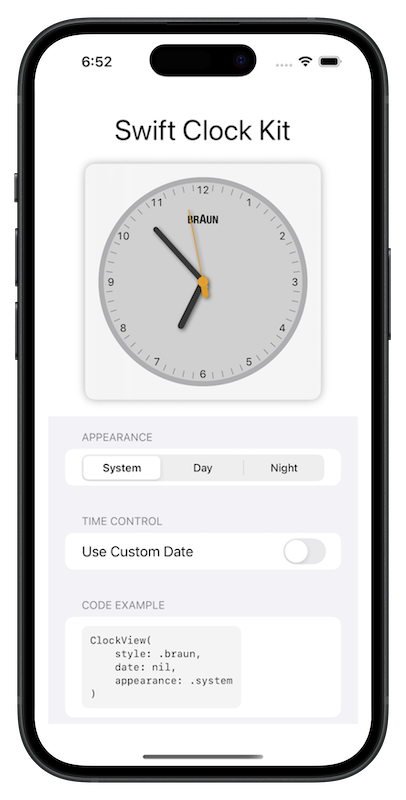
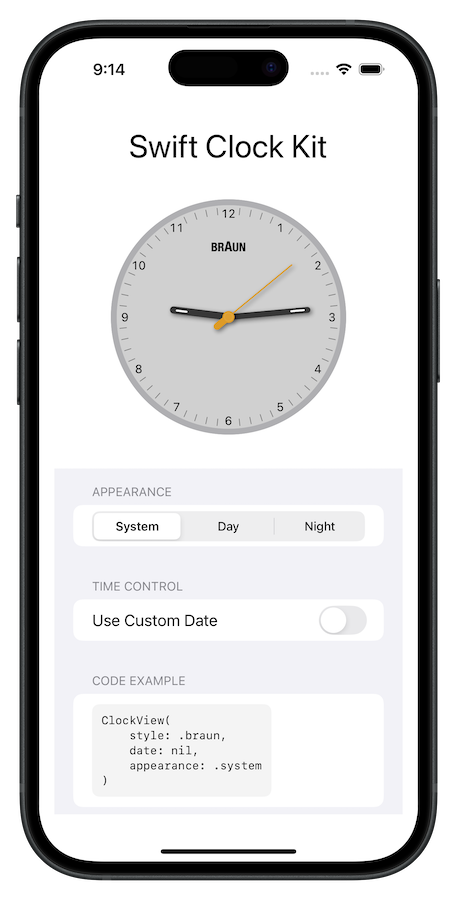
updated demo app and its associated screenshot

diff --git a/SwiftClockKitDemo/SwiftClockKitDemo/ContentView.swift b/SwiftClockKitDemo/SwiftClockKitDemo/ContentView.swift
@@ -21,9 +21,6 @@ struct ContentView: View {
             )
             .frame(width: 250, height: 250)
             .padding()
-            .background(.thinMaterial)
-            .cornerRadius(12)
-            .shadow(radius: 5)
 
             Form {
                 Section(header: Text("Appearance")) {
